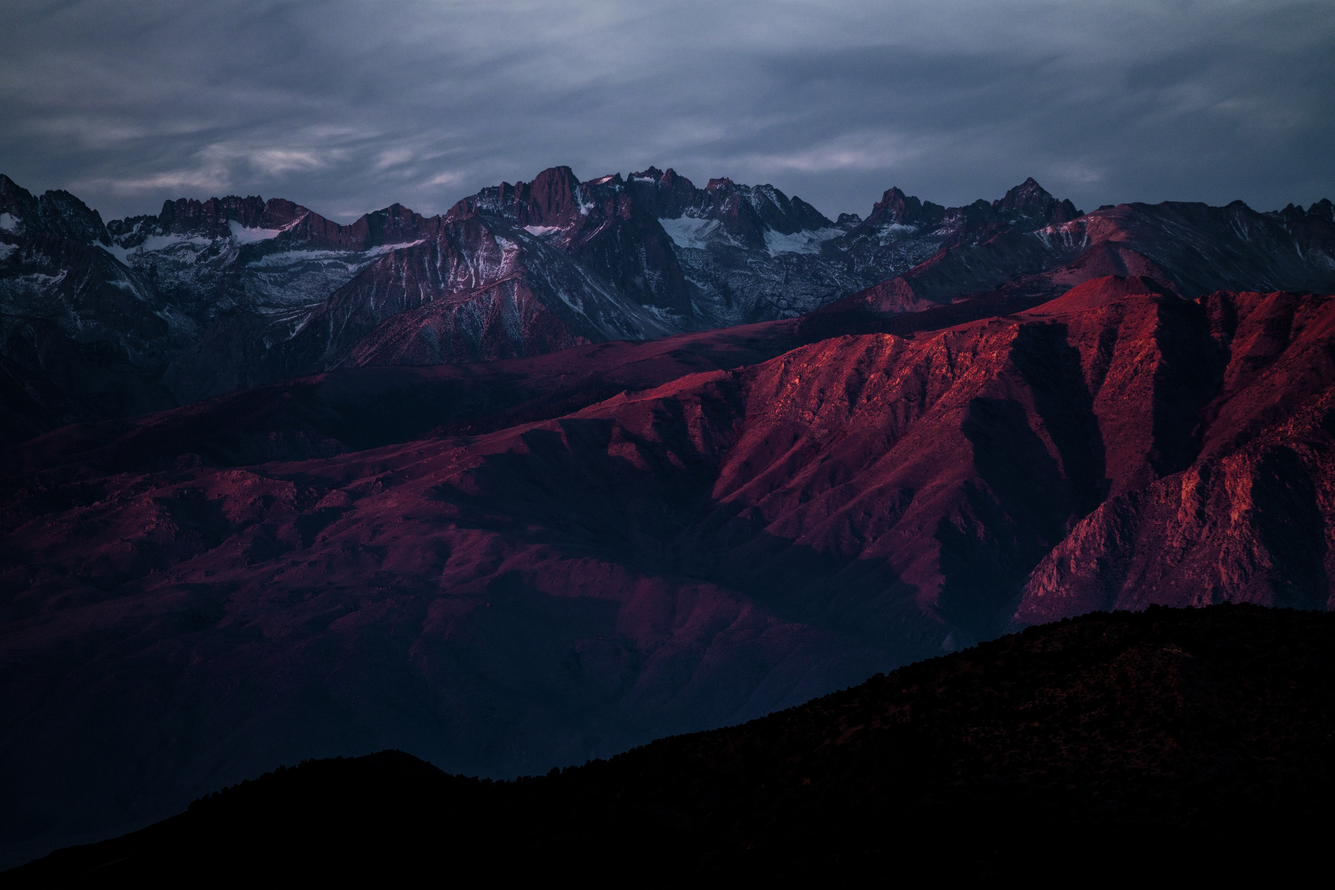
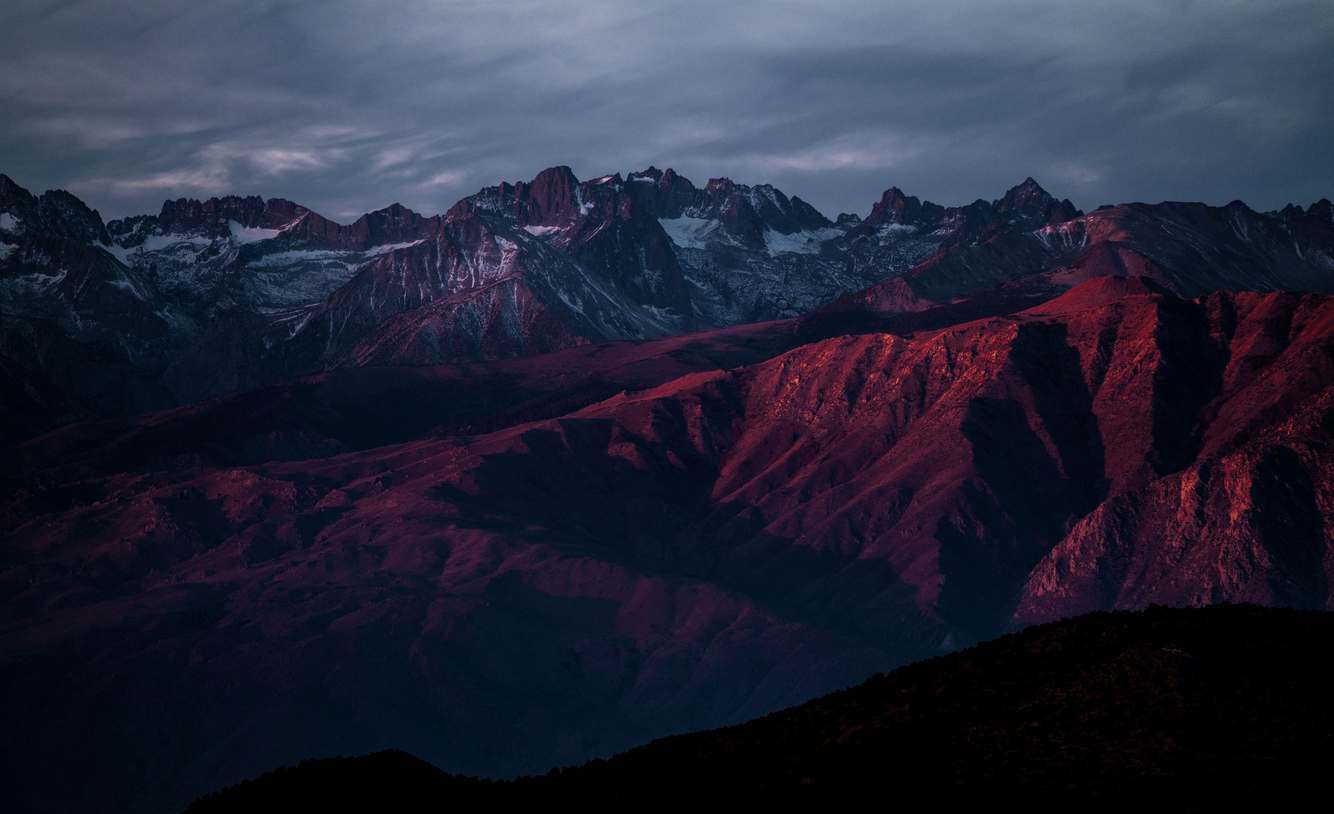
feat: add little adaptivity

Changed region(s): [[0.0, 0.1246, 1.0, 1.0]]

diff --git a/style.css b/style.css
@@ -15,7 +15,7 @@ h1,h2{
 body{
     
     margin:0;
-    overflow:hidden;
+    overflow-x:hidden;
     height: 100vh;
     width: 100vw;
     background: url(img/landscape.jpg) ;
@@ -23,23 +23,23 @@ body{
     background-repeat: no-repeat;
     
     background-size:cover;
-    
+    background-attachment:fixed;
     font-family:Montserrat;
     color: white;
-    background-position-y: -5em;
-    padding-bottom: 5em;
+    
     
 }
 
 .page{
     position: relative;
-    height: 100vh;
+    
     width: 50vw;
     margin: auto;
     display:block;
     background: rgba(116, 116, 116, 0.2);
     mix-blend-mode: normal;
     backdrop-filter: blur(15px);
+    
 }
 
 .header{
@@ -86,18 +86,20 @@ padding-top: 0.5em;
 
 .main{
     display: flex;
-    
+    flex-wrap: nowrap; 
+    flex-grow: initial; 
     justify-content: space-between;
 }
 .left-panel{
     margin-left: 2em;
     margin-top: 11.1vh;   
-    
+    flex-grow: 3;
     display: flex;
     flex-direction: column;
 }
 
 .right-panel{
+    flex-grow: 1;
     margin-top: 3vh;
     margin-right: 2em;
     width: 30vw;  
@@ -109,6 +111,7 @@ padding-top: 0.5em;
     border: 1px solid rgba(255, 255, 255, 0.09);
     border-radius: 17px;    
 }
+
 
 .summary, .code-example{
 display:flex;
@@ -126,10 +129,14 @@ text-align:justify;
     
 }
 pre{
-    display:block;
+    
     margin: 0;
     line-height: 1.2em;
-    padding: 1.6vh 1vw
+    
+        white-space: pre-wrap;
+        word-wrap: break-word;
+        text-align: justify;
+   
 }
 
 
@@ -139,15 +146,19 @@ pre{
     
 }
 .education ul, .english p{    
-    height: 9vh;
+    height:max-content;
     display: flex;
     flex-direction: column;
     justify-content: center;
     align-items: baseline;    
     margin-top: 0;
+    line-height: 2.15em;
 }
 .english p{
     align-items: center;
+    height: 6vh;
+    
+    margin-top: auto;
 }
 
 
@@ -195,15 +206,15 @@ a{
 
  .contact ul{
     display: flex;
-    justify-content:space-evenly;
-    
+    justify-content:space-around;
+    flex-wrap: wrap;
     list-style: none;
 
     background: rgba(255, 255, 255, 0.09);
     border: 1px solid rgba(255, 255, 255, 0.09);
       
     
-    line-height: 1.3em;
+    line-height: 1.7em;
     color: #e7e7e7;
     font-size: 18px;
     margin: 0;
@@ -217,11 +228,9 @@ a{
     
 }
 .contact ul li{
-    padding: 0.2em 0; 
+    padding: 0.2em 1em; 
 }
-.footer{
-    position:absolute;
-    width:100%;
-    bottom:0px;
+.footer{   
+    width:50vw;
 }
 

diff --git a/index.html b/index.html
@@ -88,23 +88,25 @@ let vector = new Vector({x: 1, y: 2});</code></pre>
                 </div>
             </div>
         </div>  
-       
         <div class="footer">
             
             <section class="contact">
                 <h2>Contact me</h2>
-
+    
                 <ul>
                     <li>+375292578811</li>
                     <li>Dvainila@gmail.com</li>
                     <li><a href="https://linkedin.com/in/Vainila">linkedin.com/in/Vainila</a></li>
                     <li><a href="https://vk.com/DVainila">vk.com/DVainila</a></li>
-
+    
                 </ul>
             </section>
         </div>
+        
     </div>
 
+
+    
 
 </body>
 </html>
